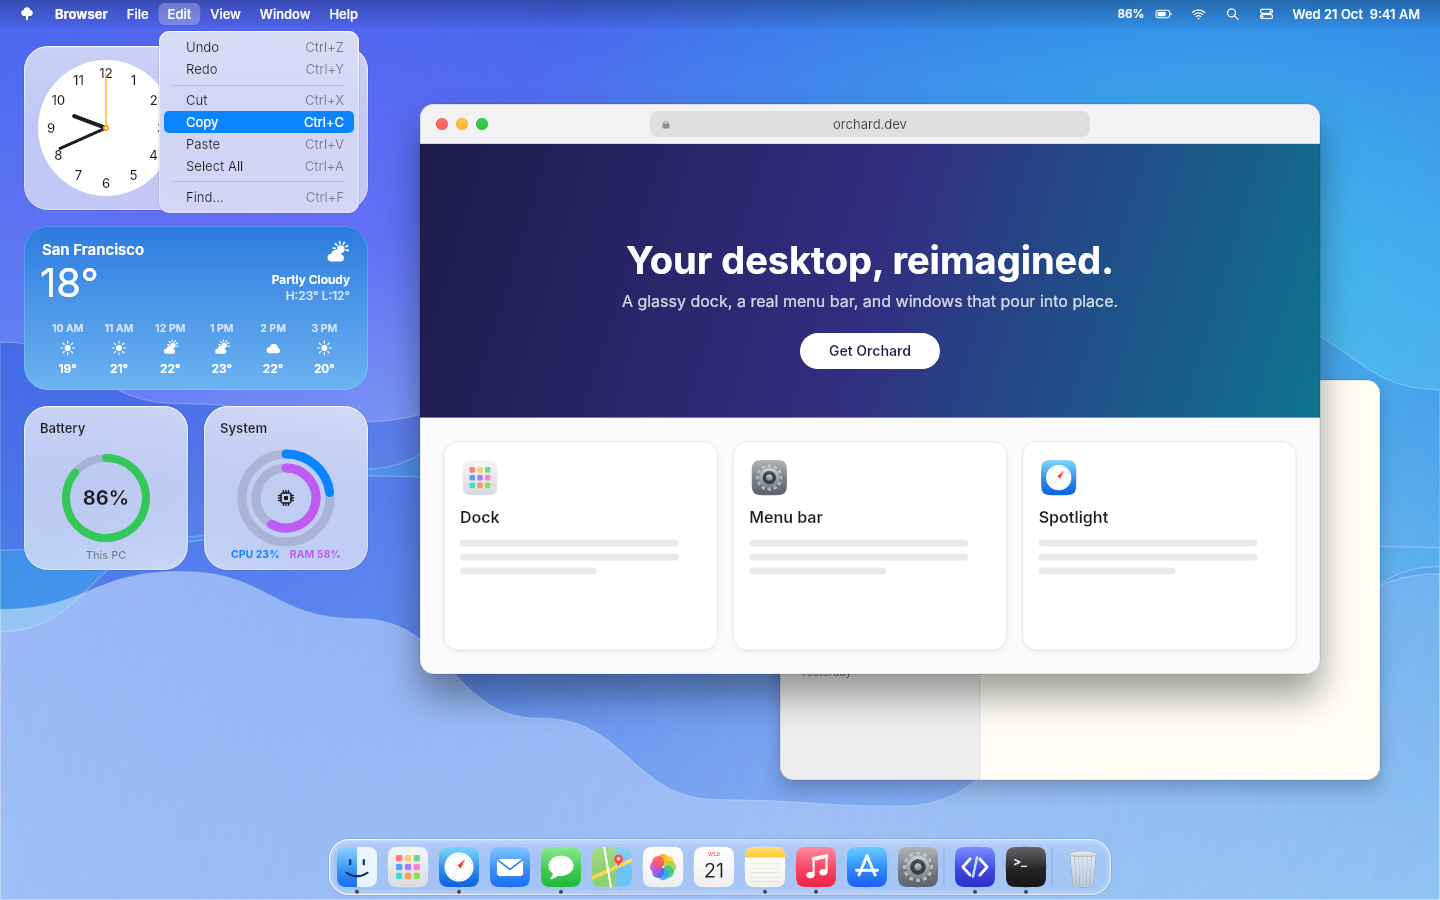
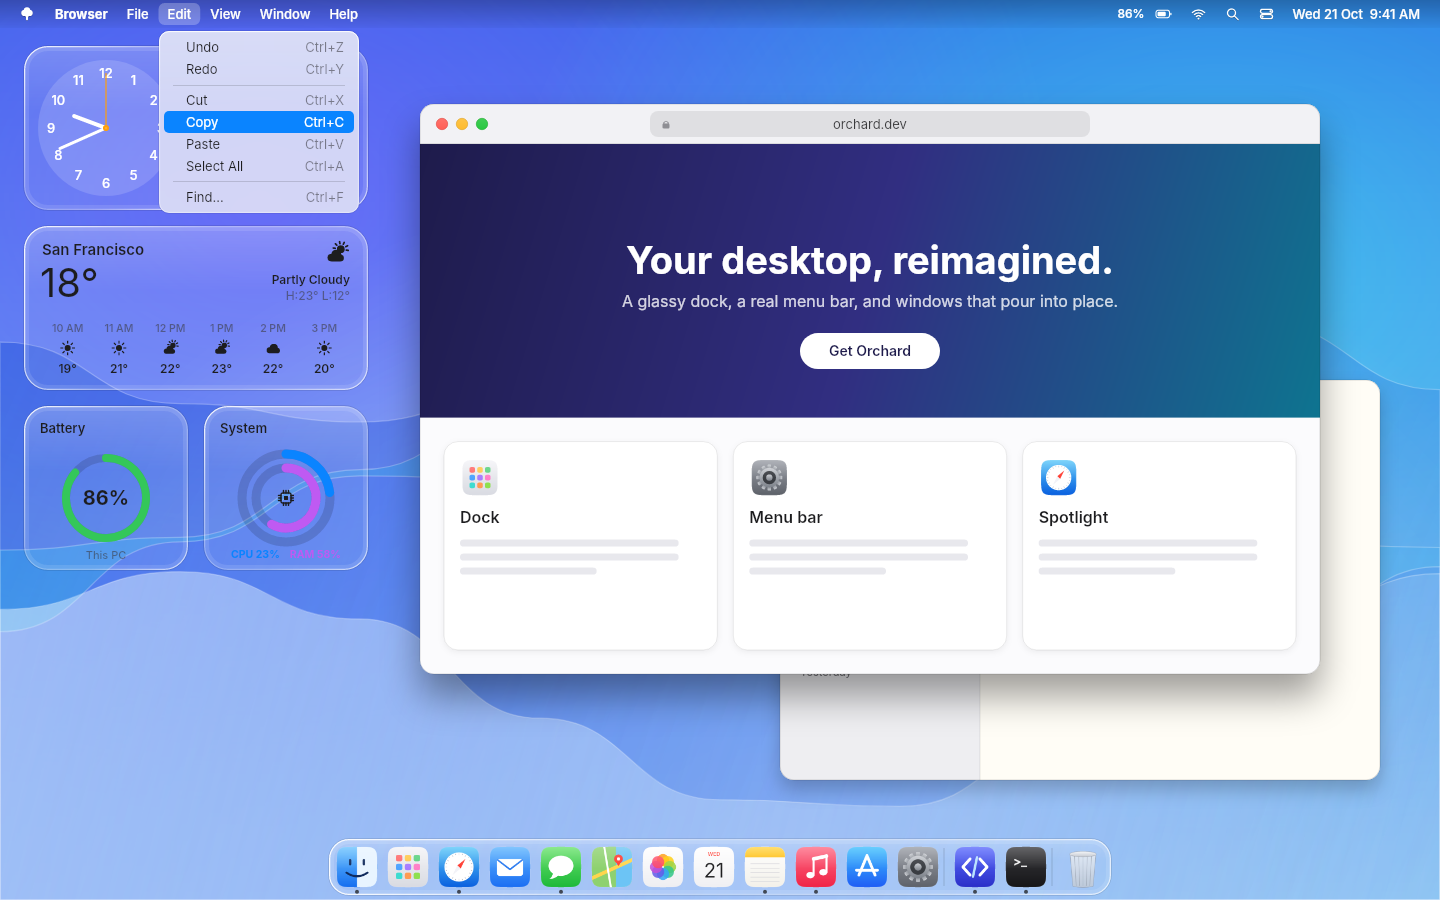
Smooth glass edges, clear widgets matching the dock, clean menu bar
From the fourth real-PC screenshot:
- Jagged rounded corners on the dock and widgets: Win32 window regions are
  not anti-aliased and cut through the painted edge. Regions are now 3 DIP
  larger than the shapes (radius grown to match), so only fully
  transparent pixels are clipped.
- Widgets now use the same clear glass as the dock (frosted panel when the
  Frosted style is chosen). Text, clock hands, rings and the clock face
  pick white or dark ink from the wallpaper behind each widget; Weather
  draws on clear glass too instead of its own sky gradient.
- Menu bar: the clear style's rim and sheen looked wrong on a long thin
  bar; it is back to frosted wallpaper + tint with a single hairline.

Claude-Session: https://claude.ai/code/session_0183A4US3oh7osa1efwF164h

Changed region(s): [[0.0, 0.0311, 0.2812, 0.6533], [0.25, 0.0622, 0.2812, 0.2178]]

diff --git a/src/Orchard/Controls/WidgetBoard.cs b/src/Orchard/Controls/WidgetBoard.cs
@@ -102,16 +102,39 @@ public sealed class WidgetBoard : Control
             if (rect.Contains(p)) { WidgetMenuRequested?.Invoke(kind, rect); e.Handled = true; return; }
     }
 
+    // Ink for the widget being drawn: dark on bright glass, white on dark glass (dark mode, or clear glass over a
+    // dark wallpaper) — the same rule the dock and menu bar follow.
+    private Color _ink, _inkSecondary, _track, _face;
+
+    private void ChooseInk(Rect r)
+    {
+        var tint = Glass.ClearChrome ? Palette.ClearTint : Palette.GlassTintPanel;
+        bool dark = Palette.Dark || Glass.PerceivedLuminance(this, r, tint) is < 0.5;
+        _ink = dark ? Colors.White : Color.FromRgb(0x1D, 0x1D, 0x1F);
+        _inkSecondary = dark ? Color.FromArgb(0xB0, 0xFF, 0xFF, 0xFF) : Color.FromArgb(0x99, 0x3C, 0x3C, 0x43);
+        _track = dark ? Color.FromArgb(0x38, 0xFF, 0xFF, 0xFF) : Color.FromArgb(0x24, 0x00, 0x00, 0x00);
+        _face = Glass.ClearChrome
+            ? (dark ? Color.FromArgb(0x26, 0xFF, 0xFF, 0xFF) : Color.FromArgb(0x70, 0xFF, 0xFF, 0xFF))
+            : (Palette.Dark ? Color.FromRgb(0x1C, 0x1C, 0x1E) : Colors.White);
+    }
+
     public override void Render(DrawingContext ctx)
     {
         var now = FixedNow ?? DateTime.Now;
         foreach (var (kind, r) in _layout)
         {
             var shape = new RoundedRect(r, Radius);
-            if (kind == WidgetKind.Weather) DrawWeather(ctx, r, shape, now);
+            ChooseInk(r);
+            if (kind == WidgetKind.Weather && !Glass.ClearChrome) DrawWeather(ctx, r, shape, now);
+            else if (kind == WidgetKind.Weather)
+            {
+                Glass.Draw(ctx, this, shape, shadow: false, chrome: true);
+                DrawWeatherContent(ctx, r, now);
+            }
             else
             {
-                Glass.Draw(ctx, this, shape, strong: false, shadow: false, panel: true);
+                // Same material as the dock: clear glass by default, frosted panel otherwise.
+                Glass.Draw(ctx, this, shape, strong: false, shadow: false, panel: true, chrome: true);
                 switch (kind)
                 {
                     case WidgetKind.Clock: DrawClock(ctx, r, now); break;
@@ -125,12 +148,12 @@ public sealed class WidgetBoard : Control
 
     // ---- clock ---------------------------------------------------------------------------------
 
-    private static void DrawClock(DrawingContext ctx, Rect r, DateTime now)
+    private void DrawClock(DrawingContext ctx, Rect r, DateTime now)
     {
         var c = new Point(r.Center.X, r.Center.Y);
         double rad = r.Width / 2 - 14;
-        var face = Palette.Dark ? Color.FromRgb(0x1C, 0x1C, 0x1E) : Colors.White;
-        var ink = Palette.Dark ? Colors.White : Color.FromRgb(0x1D, 0x1D, 0x1F);
+        var face = _face;
+        var ink = _ink;
         ctx.DrawEllipse(Palette.Brush(face), null, c, rad, rad);
 
         for (int h = 1; h <= 12; h++)
@@ -154,7 +177,7 @@ public sealed class WidgetBoard : Control
 
     // ---- calendar ------------------------------------------------------------------------------
 
-    private static void DrawCalendar(DrawingContext ctx, Rect r, DateTime now)
+    private void DrawCalendar(DrawingContext ctx, Rect r, DateTime now)
     {
         var red = Color.FromRgb(0xFF, 0x45, 0x3A);
         ctx.DrawText(Shapes.Text(now.ToString("MMMM", CultureInfo.CurrentCulture).ToUpperInvariant(), 11, red, FontWeight.Bold), new Point(r.X + 16, r.Y + 14));
@@ -165,7 +188,7 @@ public sealed class WidgetBoard : Control
         string[] heads = ["S", "M", "T", "W", "T", "F", "S"];
         for (int i = 0; i < 7; i++)
         {
-            var h = Shapes.Text(heads[i], 9.5, Palette.TextSecondary, FontWeight.SemiBold);
+            var h = Shapes.Text(heads[i], 9.5, _inkSecondary, FontWeight.SemiBold);
             ctx.DrawText(h, new Point(r.X + 12 + cw * (i + 0.5) - h.Width / 2, top));
         }
         for (int d = 1; d <= days; d++)
@@ -174,7 +197,7 @@ public sealed class WidgetBoard : Control
             double x = r.X + 12 + cw * (cell % 7 + 0.5), y = top + 16 + cell / 7 * ch;
             bool today = d == now.Day;
             if (today) ctx.DrawEllipse(Palette.Brush(red), null, new Point(x, y + 7), 8.5, 8.5);
-            var t = Shapes.Text(d.ToString(CultureInfo.InvariantCulture), 10.5, today ? Colors.White : Palette.Text, today ? FontWeight.Bold : FontWeight.Medium);
+            var t = Shapes.Text(d.ToString(CultureInfo.InvariantCulture), 10.5, today ? Colors.White : _ink, today ? FontWeight.Bold : FontWeight.Medium);
             ctx.DrawText(t, new Point(x - t.Width / 2, y + 7 - t.Height / 2));
         }
     }
@@ -190,9 +213,16 @@ public sealed class WidgetBoard : Control
             : Shapes.Vertical(Color.FromRgb(0x2D, 0x7B, 0xE0), Color.FromRgb(0x6C, 0xB4, 0xF2));
         ctx.DrawRectangle(sky, null, shape);
         ctx.DrawRectangle(null, new Pen(Palette.Brush(Color.FromArgb(0x30, 0xFF, 0xFF, 0xFF)), 1), shape.Deflate(0.5, 0.5));
+        _ink = Colors.White;
+        _inkSecondary = Color.FromArgb(0xC0, 0xFF, 0xFF, 0xFF);
+        DrawWeatherContent(ctx, r, now);
+    }
 
-        var white = Colors.White;
-        var dim = Color.FromArgb(0xC0, 0xFF, 0xFF, 0xFF);
+    private void DrawWeatherContent(DrawingContext ctx, Rect r, DateTime now)
+    {
+        var w = _weather?.Current ?? SampleWeather;
+        var white = _ink;
+        var dim = _inkSecondary;
         if (w == null)
         {
             ctx.DrawText(Shapes.Text("Weather", 15, white, FontWeight.SemiBold), new Point(r.X + 18, r.Y + 16));
@@ -236,9 +266,9 @@ public sealed class WidgetBoard : Control
 
     // ---- rings (battery, system) ---------------------------------------------------------------
 
-    private static void Ring(DrawingContext ctx, Point c, double radius, double value, Color color, double thickness = 8)
+    private void Ring(DrawingContext ctx, Point c, double radius, double value, Color color, double thickness = 8)
     {
-        ctx.DrawEllipse(null, new Pen(Palette.Brush(Palette.Track), thickness), c, radius, radius);
+        ctx.DrawEllipse(null, new Pen(Palette.Brush(_track), thickness), c, radius, radius);
         value = Math.Clamp(value, 0, 1);
         if (value <= 0) return;
         if (value >= 0.999) { ctx.DrawEllipse(null, new Pen(Palette.Brush(color), thickness), c, radius, radius); return; }
@@ -256,35 +286,35 @@ public sealed class WidgetBoard : Control
     private void DrawBattery(DrawingContext ctx, Rect r)
     {
         var b = _platform.Battery;
-        ctx.DrawText(Shapes.Text("Battery", 13, Palette.Text, FontWeight.SemiBold), new Point(r.X + 16, r.Y + 14));
+        ctx.DrawText(Shapes.Text("Battery", 13, _ink, FontWeight.SemiBold), new Point(r.X + 16, r.Y + 14));
         var c = new Point(r.Center.X, r.Y + 92);
         var green = Color.FromRgb(0x34, 0xC7, 0x59);
         if (b == null)
         {
             Ring(ctx, c, 40, 1, green);
-            Glyphs.Draw(ctx, Glyph.Power, new Rect(c.X - 14, c.Y - 14, 28, 28), Palette.Text, 2);
-            var t = Shapes.Text("Plugged in", 11, Palette.TextSecondary, FontWeight.Medium);
+            Glyphs.Draw(ctx, Glyph.Power, new Rect(c.X - 14, c.Y - 14, 28, 28), _ink, 2);
+            var t = Shapes.Text("Plugged in", 11, _inkSecondary, FontWeight.Medium);
             ctx.DrawText(t, new Point(c.X - t.Width / 2, r.Bottom - 22));
             return;
         }
         var color = b.Percent <= 20 ? Color.FromRgb(0xFF, 0x45, 0x3A) : green;
         Ring(ctx, c, 40, b.Percent / 100.0, color);
-        var pct = Shapes.Text($"{b.Percent}%", 20, Palette.Text, FontWeight.Bold);
+        var pct = Shapes.Text($"{b.Percent}%", 20, _ink, FontWeight.Bold);
         ctx.DrawText(pct, new Point(c.X - pct.Width / 2, c.Y - pct.Height / 2));
-        var state = Shapes.Text(b.Charging ? "Charging" : "This PC", 11, Palette.TextSecondary, FontWeight.Medium);
+        var state = Shapes.Text(b.Charging ? "Charging" : "This PC", 11, _inkSecondary, FontWeight.Medium);
         ctx.DrawText(state, new Point(c.X - state.Width / 2, r.Bottom - 22));
     }
 
     private void DrawSystem(DrawingContext ctx, Rect r)
     {
         var load = _load ?? _platform.Load;
-        ctx.DrawText(Shapes.Text("System", 13, Palette.Text, FontWeight.SemiBold), new Point(r.X + 16, r.Y + 14));
+        ctx.DrawText(Shapes.Text("System", 13, _ink, FontWeight.SemiBold), new Point(r.X + 16, r.Y + 14));
         var blue = Color.FromRgb(0x0A, 0x84, 0xFF);
         var purple = Color.FromRgb(0xBF, 0x5A, 0xF2);
         var c = new Point(r.Center.X, r.Y + 92);
         Ring(ctx, c, 44, load?.Cpu ?? 0, blue, 9);
         Ring(ctx, c, 30, load?.Memory ?? 0, purple, 9);
-        Glyphs.Draw(ctx, Glyph.Cpu, new Rect(c.X - 10, c.Y - 10, 20, 20), Palette.Text, 1.6);
+        Glyphs.Draw(ctx, Glyph.Cpu, new Rect(c.X - 10, c.Y - 10, 20, 20), _ink, 1.6);
 
         var cpu = Shapes.Text($"CPU {(load?.Cpu ?? 0) * 100:0}%", 10.5, blue, FontWeight.Bold);
         var mem = Shapes.Text($"RAM {(load?.Memory ?? 0) * 100:0}%", 10.5, purple, FontWeight.Bold);

diff --git a/src/Orchard/Controls/MenuBarView.cs b/src/Orchard/Controls/MenuBarView.cs
@@ -119,14 +119,14 @@ public sealed class MenuBarView : Control
         {
             // On the real desktop windows can be dragged up under the bar, so it must not be see-through: frosted
             // wallpaper when we have it, otherwise an opaque bar.
-            if (Glass.DesktopBackdrop != null || Glass.ClearChrome)
-                Glass.Draw(ctx, this, new RoundedRect(new Rect(Bounds.Size), 0), strong: false, shadow: false, chrome: true);
+            if (Glass.DesktopBackdrop != null)
+                Glass.DrawBar(ctx, this, new Rect(Bounds.Size));
             else
                 ctx.DrawRectangle(Palette.Brush(Palette.Dark ? Color.FromArgb(0xF4, 0x1A, 0x1A, 0x1D) : Color.FromArgb(0xF0, 0xF4, 0xF4, 0xF6)), null, new Rect(Bounds.Size));
             ctx.DrawLine(new Pen(Palette.Brush(Palette.Dark ? Color.FromArgb(0x60, 0, 0, 0) : Color.FromArgb(0x26, 0, 0, 0)), 1),
                 new Point(0, Bounds.Height - 0.5), new Point(Bounds.Width, Bounds.Height - 0.5));
             // Translucent bar: like macOS, use white text when the wallpaper behind it is dark, even in light mode.
-            bool darkBehind = Palette.Dark || Glass.PerceivedLuminance(this, new Rect(Bounds.Size), Glass.ChromeTint) is < 0.5;
+            bool darkBehind = Palette.Dark || Glass.PerceivedLuminance(this, new Rect(Bounds.Size), Palette.GlassTint) is < 0.5;
             ink = darkBehind ? Colors.White : Color.FromRgb(0x1D, 0x1D, 0x1F);
             shadow = Colors.Transparent;
             highlight = darkBehind ? Color.FromArgb(0x38, 255, 255, 255) : Color.FromArgb(0x1C, 0, 0, 0);

diff --git a/src/Orchard/Rendering/Glass.cs b/src/Orchard/Rendering/Glass.cs
@@ -132,6 +132,19 @@ public static class Glass
         return wall * (1 - a) + tintLum * a;
     }
 
+    /// <summary>
+    /// The menu bar: frosted wallpaper and the plain tint, with no rim or sheen — edge highlights look wrong
+    /// stretched across a long thin bar. A single hairline separates it from what is below.
+    /// </summary>
+    public static void DrawBar(DrawingContext ctx, Visual owner, Rect rect)
+    {
+        var shape = new RoundedRect(rect, 0);
+        if (DesktopBackdrop is { } wallpaper) DrawDesktopBackdrop(ctx, owner, shape, wallpaper);
+        ctx.DrawRectangle(Palette.Brush(Palette.GlassTint), null, rect);
+        ctx.DrawLine(new Pen(Palette.Brush(Color.FromArgb(Palette.Dark ? (byte)0x50 : (byte)0x22, 0, 0, 0)), 1),
+            new Point(rect.X, rect.Bottom - 0.5), new Point(rect.Right, rect.Bottom - 0.5));
+    }
+
     private static void DrawClear(DrawingContext ctx, RoundedRect shape)
     {
         ctx.DrawRectangle(Palette.Brush(Palette.ClearTint), null, shape);

diff --git a/src/Orchard/Shell/ShellWindow.cs b/src/Orchard/Shell/ShellWindow.cs
@@ -86,8 +86,11 @@ public class ShellWindow : Window
         nint region = Native.CreateRectRgn(0, 0, 0, 0);
         foreach (var shape in shapes)
         {
-            var r = shape.Rect;
-            int d = (int)Math.Round(shape.RadiiTopLeft.X * 2 * s);
+            // Window regions are hard-edged (no anti-aliasing). Make the region 3 DIP bigger than the painted shape
+            // so it never cuts through the shape's smooth edge — otherwise rounded corners come out jagged.
+            const double margin = 3;
+            var r = shape.Rect.Inflate(margin);
+            int d = (int)Math.Round((shape.RadiiTopLeft.X + margin) * 2 * s);
             nint part = Native.CreateRoundRectRgn((int)Math.Floor(r.X * s), (int)Math.Floor(r.Y * s),
                 (int)Math.Ceiling(r.Right * s) + 1, (int)Math.Ceiling(r.Bottom * s) + 1, d, d);
             Native.CombineRgn(region, region, part, Native.RGN_OR);

diff --git a/src/Orchard/Shell/SettingsWindow.cs b/src/Orchard/Shell/SettingsWindow.cs
@@ -34,7 +34,7 @@ public sealed class SettingsWindow : Window
 
         body.Children.Add(Section("Appearance",
             Row("Theme", Combo(_s.Appearance, v => _s.Appearance = v, ("Match Windows", Appearance.Auto), ("Light", Appearance.Light), ("Dark", Appearance.Dark))),
-            Row("Dock & menu bar glass", Combo(_s.Glass, v => _s.Glass = v, ("Clear (see-through)", GlassStyle.Clear), ("Frosted", GlassStyle.Frosted)))));
+            Row("Dock & widget glass", Combo(_s.Glass, v => _s.Glass = v, ("Clear (see-through)", GlassStyle.Clear), ("Frosted", GlassStyle.Frosted)))));
 
         body.Children.Add(Section("Dock",
             Row("Show the dock", Combo(_s.Dock, v => _s.Dock = v,

diff --git a/README.md b/README.md
@@ -40,7 +40,7 @@ the genie minimize effect, Spotlight, Launchpad and Control Center.
 | **Control Center** | Real volume and laptop-brightness sliders, a real dark mode toggle, and Lock. Wi-Fi, Bluetooth, Airplane, Focus and Cast open the matching Settings page, because Windows doesn't let normal apps flip those radios. |
 | **Widgets** | Clock, calendar, weather, battery and system (CPU/RAM) widgets sit on the desktop beneath your windows. Weather comes from Open-Meteo (free, no account) once you set `WeatherCity`. Right-click a widget to remove it. |
 | **Dark mode** | Dock, menus, Control Center, Spotlight, Launchpad and widgets all switch to near-black glass, and the switch happens live. By default it follows the Windows light/dark setting. Set `"Appearance"` to force one, or use the Dark Mode tile in Control Center. |
-| **Clear glass** | By default the dock and menu bar are clear, see-through glass, like macOS's clear Liquid Glass: no blur and a barely-there tint, with bright edge highlights that make them read as glass. Choose **Frosted** in Settings for the blurred look. Menus, Control Center and widgets stay frosted so text is readable. |
+| **Clear glass** | By default the dock and widgets are clear, see-through glass, like macOS's clear Liquid Glass: no blur and a barely-there tint, with bright edge highlights that make them read as glass. Text and clock hands turn white over dark wallpapers. Choose **Frosted** in Settings for the blurred look. The menu bar, menus and Control Center are frosted so text is always readable. |
 | **Glass look** | The compositor blurs whatever is behind each surface, with a tinted, rim-lit glass layer painted over it. Light and dark appearance are both supported. |
 
 ## Install
@@ -96,7 +96,7 @@ Everything is stored in `%APPDATA%\Orchard\settings.json`, which you can also ed
   "TrafficLightExclusions": [],        // e.g. ["chrome.exe"] to keep an app's own buttons in that spot
   "HideWindowsTaskbar": true,
   "Appearance": "Auto",                // Auto (follow Windows) | Light | Dark
-  "Glass": "Clear",                    // dock & menu bar: Clear (see-through) | Frosted
+  "Glass": "Clear",                    // dock & widgets: Clear (see-through) | Frosted
   "ShowWidgets": true,
   "Widgets": ["Clock", "Calendar", "Weather", "Battery", "System"],
   "WeatherCity": "London",             // empty = the weather widget asks you to set one
